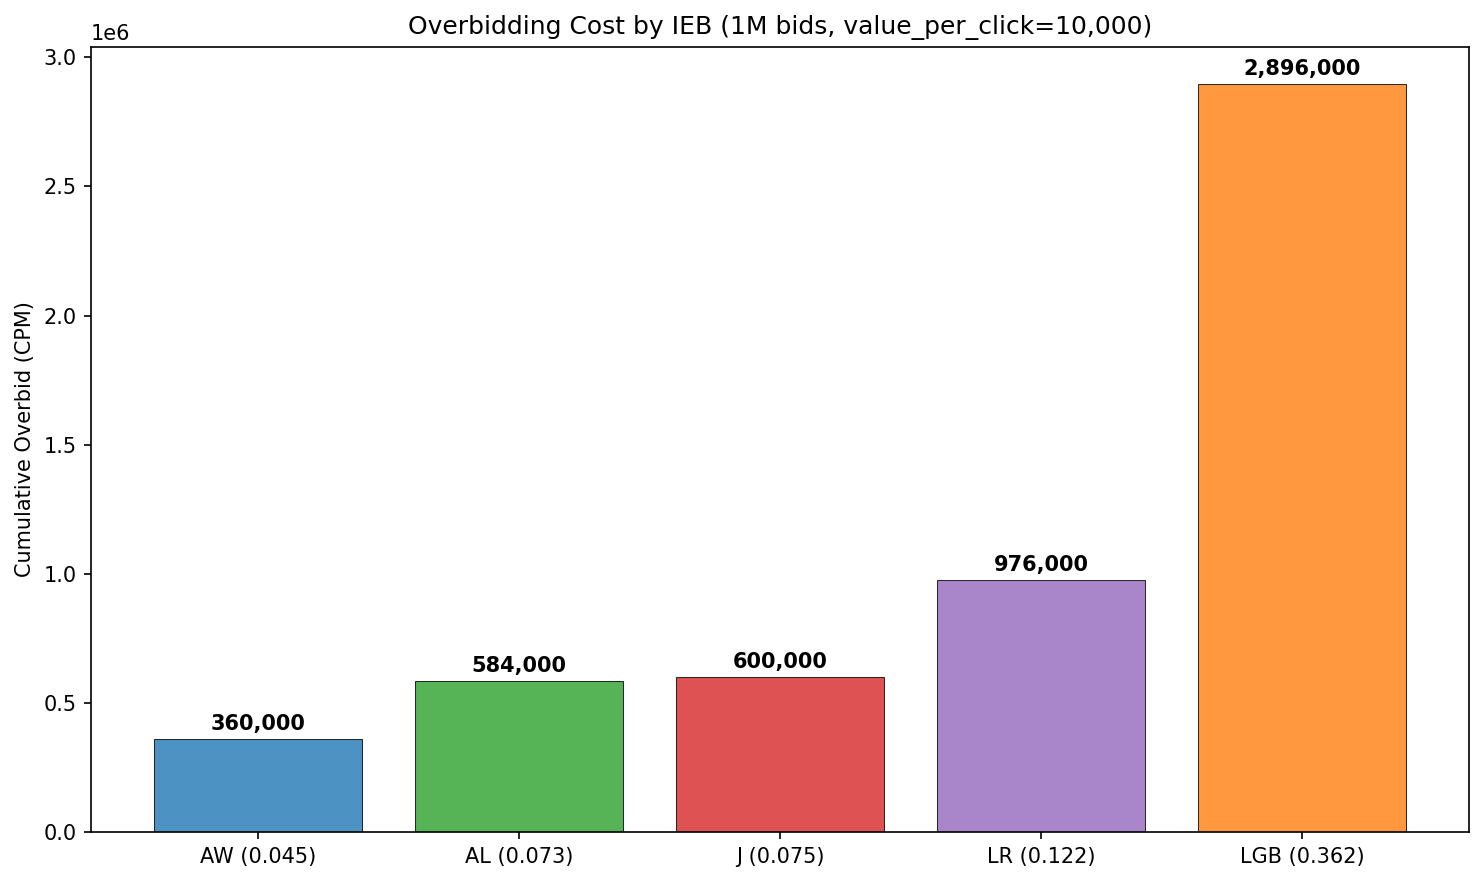
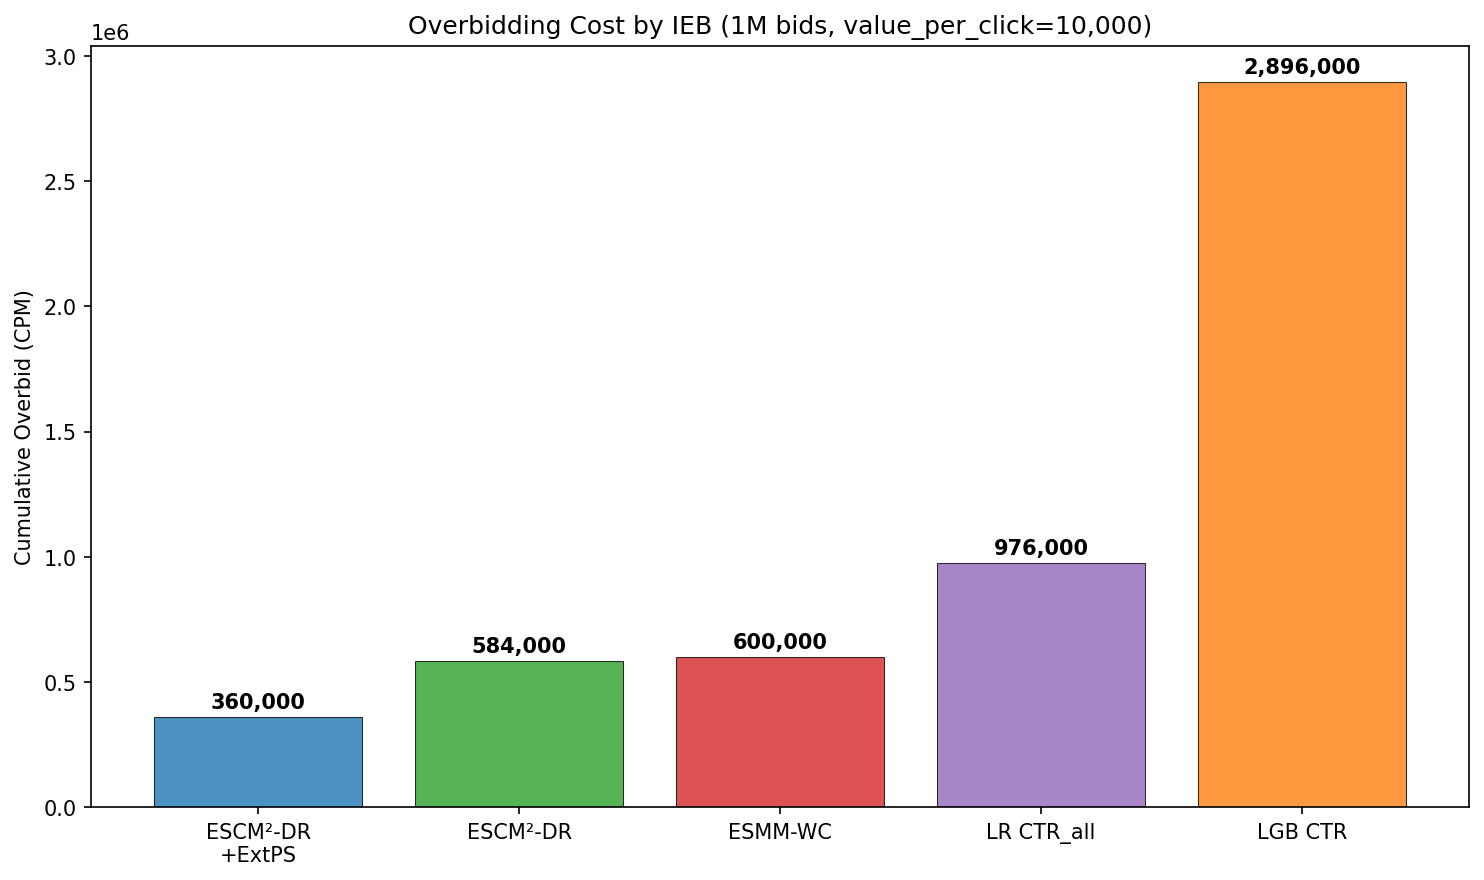
feat: 모델 비교 diagnostics + overbidding/surplus figures 고도화
- plot_comparison_diagnostics() 추가: LGB/LR/ESCM²-WC(DR) calibration+ROC+IEB 3-panel 비교
- prediction_report.md: 개별 Figure 10-14 → 비교 figure 통합, figure 번호 재정리
- prediction_report_summary.md: 비교 diagnostics/overbidding/surplus heatmap 적용,
  Methodology에 Overbidding vs Surplus 개념 설명 추가
- overbidding plot: Run 코드(AW,AL,J) → 모델명(ESCM²-DR, ESMM-WC 등) 변경
- surplus figure: 절대 surplus bar → loss % heatmap 재설계 (0%=green, 8%=red)

diff --git a/scripts/regenerate_surplus_figures.py b/scripts/regenerate_surplus_figures.py
@@ -83,72 +83,63 @@ def generate_calibration_economic_value():
                  for n, _, _ in MODEL_SPECS]
         print(f"Ex{ex_id}: oracle={s_or:.2f} | " + " | ".join(parts))
 
-    # === 2-Panel Figure ===
-    fig, axes = plt.subplots(1, 2, figsize=(16, 6))
+    # === Annotated Heatmap: Surplus Loss % ===
+    import matplotlib.colors as mcolors
 
-    # Left: Overall
-    ax = axes[0]
-    names_display = [r["name"].replace("ESCM²-WC(DR)", "ESCM²\nDR").replace("+ExtPS ", "+ExtPS\n")
-                     for r in overall_results]
-    colors = [r["color"] for r in overall_results]
-    surpluses = [r["true_surplus"] for r in overall_results]
+    col_labels = ["Overall", "Ex1\n(F300=69%)", "Ex2\n(F300=29%)", "Ex3\n(F300=12%)"]
 
-    x_pos = np.arange(len(overall_results))
-    ax.bar(x_pos, surpluses, color=colors, alpha=0.8, edgecolor="black", linewidth=0.5)
-    ax.axhline(s_oracle, color="gray", linestyle="--", linewidth=1,
-               label=f"Oracle: {s_oracle:.2f} CPM")
+    # Build loss matrix (rows=models, cols=contexts)
+    row_labels = []
+    loss_matrix = []
+    for name, ieb, _ in MODEL_SPECS:
+        short = (name.replace("ESCM²-WC(DR)", "ESCM²-DR")
+                 .replace("+ExtPS AW", "+ExtPS")
+                 .replace(" AL", "").replace(" J", "")
+                 .replace(" (biased)", ""))
+        row_labels.append(short)
+        r = next(r for r in overall_results if r["name"] == name)
+        row = [r["loss_pct"]]
+        for ex_id in sorted(ex_results.keys()):
+            row.append(ex_results[ex_id]["models"][name]["loss_pct"])
+        loss_matrix.append(row)
 
-    for i, r in enumerate(overall_results):
-        ax.text(i, r["true_surplus"] + 0.3,
-                f'b*={r["b_star"]:.0f}\nIEB={r["ieb"]:.3f}',
-                ha="center", va="bottom", fontsize=7)
+    data = np.array(loss_matrix)
 
-    ax.set_xticks(x_pos)
-    ax.set_xticklabels(names_display, fontsize=8)
-    ax.set_ylabel("Expected Surplus (CPM, true V basis)")
-    ax.set_title(f"Overall: Optimal Bid Surplus (V_true={V_TRUE:.0f} CPM)")
-    ax.legend(fontsize=9)
-    ax.set_ylim(0, max(surpluses) * 1.4)
+    with plt.style.context("seaborn-v0_8-whitegrid"):
+        fig, ax = plt.subplots(figsize=(10, 4))
 
-    # Right: Exchange-conditional
-    ax2 = axes[1]
-    ex_ids = sorted(ex_results.keys())
-    n_models = len(MODEL_SPECS)
-    width = 0.15
-    x_ex = np.arange(len(ex_ids))
+        cmap = mcolors.LinearSegmentedColormap.from_list(
+            "surplus", ["#2ECC71", "#F1C40F", "#E74C3C"], N=256
+        )
+        vmax = max(data.max(), 1.0)
+        im = ax.imshow(data, cmap=cmap, aspect="auto", vmin=0, vmax=vmax)
 
-    for j, (name, ieb, color) in enumerate(MODEL_SPECS):
-        vals = [ex_results[ex]["models"][name]["true_surplus"] for ex in ex_ids]
-        short_label = name.split(" ")[0] + " " + name.split(" ")[-1]
-        ax2.bar(x_ex + j * width, vals, width, color=color, alpha=0.8,
-                edgecolor="black", linewidth=0.5, label=short_label)
+        # Annotations
+        for i in range(data.shape[0]):
+            for j in range(data.shape[1]):
+                val = data[i, j]
+                color = "white" if val > vmax * 0.6 else "black"
+                ax.text(j, i, f"{val:.1f}%", ha="center", va="center",
+                        fontsize=12, fontweight="bold", color=color)
 
-    oracle_vals = [ex_results[ex]["oracle_surplus"] for ex in ex_ids]
-    ax2.scatter(x_ex + (n_models - 1) * width / 2, oracle_vals, marker="*", s=100,
-                color="gold", edgecolor="black", zorder=5, label="Oracle")
+        ax.set_xticks(np.arange(len(col_labels)))
+        ax.set_xticklabels(col_labels, fontsize=11)
+        ax.set_yticks(np.arange(len(row_labels)))
+        ax.set_yticklabels(row_labels, fontsize=11)
+        ax.xaxis.set_ticks_position("top")
+        ax.xaxis.set_label_position("top")
 
-    # Annotate max loss model per exchange
-    for i, ex in enumerate(ex_ids):
-        max_loss_name = max(ex_results[ex]["models"],
-                           key=lambda n: ex_results[ex]["models"][n]["loss_pct"])
-        loss = ex_results[ex]["models"][max_loss_name]["loss_pct"]
-        if loss > 0.5:
-            y_pos = ex_results[ex]["models"][max_loss_name]["true_surplus"]
-            ax2.text(i + (n_models - 1) * width, y_pos + 0.5, f"-{loss:.0f}%",
-                     ha="center", va="bottom", fontsize=8, color="red", fontweight="bold")
+        cbar = fig.colorbar(im, ax=ax, shrink=0.8, pad=0.02)
+        cbar.set_label("Surplus Loss vs Oracle (%)", fontsize=10)
 
-    ex_labels = {1: "Ex1\n(F300=69%)", 2: "Ex2\n(F300=29%)", 3: "Ex3\n(F300=12%)"}
-    ax2.set_xticks(x_ex + (n_models - 1) * width / 2)
-    ax2.set_xticklabels([ex_labels.get(ex, f"Ex{ex}") for ex in ex_ids], fontsize=9)
-    ax2.set_ylabel("Expected Surplus (CPM, true V basis)")
-    ax2.set_title("Exchange-Conditional: Miscalibration Impact")
-    ax2.legend(fontsize=7, loc="upper right")
+        ax.set_title("Calibration Impact on Bid Surplus",
+                     fontsize=13, fontweight="bold", pad=40)
 
-    plt.tight_layout()
-    save_path = FIG_DIR / "05_calibration_economic_value.png"
-    fig.savefig(save_path, dpi=150, bbox_inches="tight")
-    plt.close()
-    print(f"\nSaved: {save_path}")
+        plt.tight_layout()
+        save_path = FIG_DIR / "05_calibration_economic_value.png"
+        fig.savefig(save_path, dpi=150, bbox_inches="tight", facecolor="white")
+        plt.close()
+        print(f"\nSaved: {save_path}")
 
 
 def generate_overbidding_cumulative():
@@ -158,8 +149,8 @@ def generate_overbidding_cumulative():
     n_bids = 1_000_000
 
     ieb_values = [0.045, 0.073, 0.075, 0.122, 0.362]
-    ieb_labels = ["AW (0.045)", "AL (0.073)", "J (0.075)",
-                  "LR (0.122)", "LGB (0.362)"]
+    ieb_labels = ["ESCM²-DR\n+ExtPS", "ESCM²-DR", "ESMM-WC",
+                  "LR CTR_all", "LGB CTR"]
     colors = ["#1f77b4", "#2ca02c", "#d62728", "#9467bd", "#ff7f0e"]
 
     totals = [n_bids * actual_ctr * ieb * value_per_click for ieb in ieb_values]

diff --git a/src/metrics/diagnostics_plot.py b/src/metrics/diagnostics_plot.py
@@ -1,12 +1,14 @@
 """Reusable 3-panel prediction diagnostics: Calibration + ROC + Score Distribution."""
 
 from pathlib import Path
-from typing import NamedTuple, Optional, Tuple
+from typing import List, NamedTuple, Optional, Tuple
 
 import matplotlib.pyplot as plt
 import numpy as np
 from sklearn.calibration import calibration_curve
 from sklearn.metrics import roc_auc_score, roc_curve
+
+COMPARISON_COLORS = ["#E74C3C", "#3498DB", "#2ECC71", "#9B59B6", "#F39C12"]
 
 
 class DiagnosticsPlotConfig(NamedTuple):
@@ -88,5 +90,94 @@ def plot_prediction_diagnostics(
         save_path = Path(save_path)
         save_path.parent.mkdir(parents=True, exist_ok=True)
         fig.savefig(save_path, dpi=config.dpi, bbox_inches="tight")
+
+    return fig
+
+
+def plot_comparison_diagnostics(
+    models: List[Tuple[str, np.ndarray, np.ndarray]],
+    save_path: Optional[Path] = None,
+    config: DiagnosticsPlotConfig = DiagnosticsPlotConfig(),
+) -> plt.Figure:
+    """3-panel comparison diagnostics: overlay multiple models on Calibration + ROC + Score Distribution.
+
+    Args:
+        models: List of (model_name, y_true, y_pred) tuples.
+        save_path: If provided, save figure to this path.
+        config: Plot configuration.
+
+    Returns:
+        matplotlib Figure.
+    """
+    with plt.style.context("seaborn-v0_8-whitegrid"):
+        fig, axes = plt.subplots(1, 3, figsize=(16, 5))
+        colors = COMPARISON_COLORS[: len(models)]
+        scale = 1e3  # display in x1e-3
+
+        # 1. Calibration curve overlay (x1e-3 scale)
+        ax = axes[0]
+        xy_max = 0.0
+        for (name, y_true, y_pred), color in zip(models, colors):
+            prob_true, prob_pred = calibration_curve(
+                y_true, y_pred, strategy=config.cal_strategy, n_bins=config.n_cal_bins
+            )
+            ece = float(np.mean(np.abs(prob_true - prob_pred)))
+            ax.plot(
+                prob_pred * scale, prob_true * scale, "o-", color=color, lw=2, markersize=6,
+                label=f"{name}\n(ECE={ece:.4f})",
+            )
+            xy_max = max(xy_max, prob_pred.max(), prob_true.max())
+        xy_max *= scale * 1.15
+        ax.plot([0, xy_max], [0, xy_max], "k--", alpha=0.4, lw=1)
+        ax.set_xlim(0, xy_max)
+        ax.set_ylim(0, xy_max)
+        ax.set_xlabel("Mean Predicted (x1e-3)", fontsize=11)
+        ax.set_ylabel("Fraction of Positives (x1e-3)", fontsize=11)
+        ax.set_title("Calibration", fontsize=12, fontweight="bold")
+        ax.legend(fontsize=8.5, framealpha=0.9, loc="upper left")
+
+        # 2. ROC curve overlay
+        ax = axes[1]
+        for (name, y_true, y_pred), color in zip(models, colors):
+            fpr, tpr, _ = roc_curve(y_true, y_pred)
+            auc = roc_auc_score(y_true, y_pred)
+            ax.plot(fpr, tpr, color=color, lw=2.5, label=f"{name} ({auc:.4f})")
+        ax.plot([0, 1], [0, 1], "k--", alpha=0.4, lw=1)
+        ax.set_xlabel("False Positive Rate", fontsize=11)
+        ax.set_ylabel("True Positive Rate", fontsize=11)
+        ax.set_title("ROC Curve", fontsize=12, fontweight="bold")
+        ax.legend(fontsize=8.5, framealpha=0.9, loc="lower right", title="AUC", title_fontsize=9)
+
+        # 3. IEB comparison bar chart
+        ax = axes[2]
+        names, iebs = [], []
+        for (name, y_true, y_pred) in models:
+            ieb = abs(y_pred.mean() - y_true.mean()) / y_true.mean()
+            names.append(name)
+            iebs.append(ieb)
+        y_pos = np.arange(len(names))
+        bars = ax.barh(y_pos, iebs, color=colors, height=0.5, edgecolor="white", lw=1.5)
+        for bar, ieb in zip(bars, iebs):
+            ax.text(
+                bar.get_width() + 0.005, bar.get_y() + bar.get_height() / 2,
+                f"{ieb:.3f}", va="center", fontsize=11, fontweight="bold",
+            )
+        ax.set_yticks(y_pos)
+        ax.set_yticklabels(names, fontsize=10)
+        ax.set_xlabel("IEB (|mean bias| / actual CTR)", fontsize=11)
+        ax.set_title("Calibration Bias (IEB)", fontsize=12, fontweight="bold")
+        ax.set_xlim(0, max(iebs) * 1.35)
+        ax.invert_yaxis()
+
+        fig.suptitle(
+            "Model Comparison — Prediction Diagnostics",
+            fontsize=14, fontweight="bold", y=1.01,
+        )
+        plt.tight_layout()
+
+        if save_path is not None:
+            save_path = Path(save_path)
+            save_path.parent.mkdir(parents=True, exist_ok=True)
+            fig.savefig(save_path, dpi=config.dpi, bbox_inches="tight", facecolor="white")
 
     return fig

diff --git a/scripts/generate_diagnostics.py b/scripts/generate_diagnostics.py
@@ -11,7 +11,7 @@ import numpy as np
 from sklearn.metrics import roc_auc_score
 
 from src.features.engineering import load_feature_splits
-from src.metrics.diagnostics_plot import plot_prediction_diagnostics
+from src.metrics.diagnostics_plot import plot_comparison_diagnostics, plot_prediction_diagnostics
 
 FEATURES_DIR = Path("data/ipinyou/prediction/features")
 MODEL_DIR = Path("results/models")
@@ -103,6 +103,63 @@ def generate_neural_diagnostics() -> None:
         print(f"{name} — AUC: {auc:.4f}, saved: {save_path}")
 
 
+def generate_comparison_diagnostics() -> None:
+    """LGB (won) vs LR (all) vs ESCM²-WC(DR) (all) comparison diagnostics."""
+    lgb_path = MODEL_DIR / "lgb_ctr.txt"
+    lr_path = MODEL_DIR / "lr_ctr_all.joblib"
+    escm2_path = MODEL_DIR / "escm2wc_dr_test_predictions.npz"
+
+    missing = [p for p in [lgb_path, lr_path, escm2_path] if not p.exists()]
+    if missing:
+        print(f"[SKIP] Missing: {[str(p) for p in missing]}")
+        return
+
+    _, _, test_df, metadata = load_feature_splits(FEATURES_DIR)
+    y_all = test_df["click"].values
+    won_mask = test_df["win"].values == 1
+
+    # LGB CTR — winners-only (biased baseline, its natural eval context)
+    feature_info = metadata.get("feature_info", {})
+    feature_cols = feature_info.get("categorical", []) + feature_info.get("numerical", [])
+    feature_cols = [c for c in feature_cols if c in test_df.columns]
+    lgb_model = lgb.Booster(model_file=str(lgb_path))
+    lgb_y = test_df.loc[won_mask, "click"].values
+    lgb_pred = lgb_model.predict(test_df.loc[won_mask, feature_cols])
+
+    # LR CTR_all — all-bids
+    artifact = joblib.load(lr_path)
+    lr_model = artifact["model"]
+    scaler = artifact["scaler"]
+    lr_feature_cols = artifact.get(
+        "feature_names",
+        [c for c in feature_info.get("categorical", []) + feature_info.get("numerical", [])
+         if c in test_df.columns],
+    )
+    lr_pred_all = lr_model.predict_proba(
+        scaler.transform(test_df[lr_feature_cols].values.astype(np.float32))
+    )[:, 1]
+
+    # ESCM²-WC(DR) — all-bids WCTR
+    escm2 = np.load(escm2_path)
+    escm2_pred_all = escm2["p_click_bid"]
+
+    models = [
+        ("LGB CTR (won)", lgb_y, lgb_pred),
+        ("LR CTR_all", y_all, lr_pred_all),
+        ("ESCM²-WC(DR)", y_all, escm2_pred_all),
+    ]
+
+    save_path = FIG_DIR / "03_model_comparison_diagnostics.png"
+    plot_comparison_diagnostics(models, save_path=save_path)
+    plt.close()
+
+    for name, y_true, y_pred in models:
+        auc = roc_auc_score(y_true, y_pred)
+        ieb = abs(y_pred.mean() - y_true.mean()) / y_true.mean()
+        print(f"  {name} — AUC: {auc:.4f}, IEB: {ieb:.4f}")
+    print(f"Saved: {save_path}")
+
+
 if __name__ == "__main__":
     print("=== LGB CTR Diagnostics ===")
     generate_lgb_diagnostics()
@@ -110,4 +167,6 @@ if __name__ == "__main__":
     generate_lr_diagnostics()
     print("\n=== Neural Model Diagnostics ===")
     generate_neural_diagnostics()
+    print("\n=== Model Comparison Diagnostics ===")
+    generate_comparison_diagnostics()
     print("\nDone.")

diff --git a/docs/prediction_report_summary.md b/docs/prediction_report_summary.md
@@ -185,6 +185,19 @@ Propensity 또는 imputation 중 하나만 올바르면 일치성 보장 (doubly
 
 > 상세 수식 및 학습 설정: [prediction_report.md §2](prediction_report.md#2-방법론) 참조
 
+### Calibration의 경제적 평가: Overbidding vs Surplus
+
+RTB에서 calibration error(IEB)의 경제적 영향을 두 가지 관점에서 측정한다:
+
+| | Overbidding Cost | Surplus Loss |
+|---|---|---|
+| **측정** | 입찰가 초과분 (bid error) | 기대 수익 감소 (profit loss) |
+| **산식** | `IEB × actual_CTR × CPC` | `(V - b*) × F(b*)` vs Oracle |
+| **IEB 관계** | 선형 비례 | 시장 CDF shape 의존 |
+| **해석** | "calibration이 얼마나 나쁜가" (모델 품질) | "실제로 돈을 얼마나 잃는가" (비즈니스 임팩트) |
+
+Overbidding은 모든 exchange에서 동일하지만, surplus loss는 시장 경쟁도에 따라 다르다 — 경쟁이 낮은 exchange(Ex1)에서는 win rate가 높아 과다 입찰의 영향이 크고, 경쟁이 높은 exchange(Ex3)에서는 어차피 승리가 어려워 영향이 없다.
+
 ---
 
 ## Results Summary
@@ -219,8 +232,11 @@ Propensity 또는 imputation 중 하나만 올바르면 일치성 보장 (doubly
 - DR의 주요 기여는 AUC **+0.032 개선** (ESMM-WC → ESCM²-WC(DR))
 - External PS (Run AW) = **calibration best** (IEB 0.045)
 
-![Debiasing Ablation](../results/figures/04_debiasing_ablation_ladder.png)
-*Debiasing ablation ladder. Multi-task 모델이 biased baseline 대비 AUC + calibration 모두 개선.*
+![Model Comparison Diagnostics](../results/figures/03_model_comparison_diagnostics.png)
+*LGB CTR (won-only) vs LR CTR_all vs ESCM²-WC(DR) 비교. Calibration: ESCM²-WC(DR)이 perfect line에 가장 근접. LGB는 상위 bin에서 overestimation이 뚜렷하다.*
+
+![Overbidding Cost](../results/figures/04_overbidding_simulation.png)
+*모델별 Overbidding Cost (1M bids). Neural debiasing (AW 360K) vs LGB baseline (2,896K) — ~8배 차이.*
 
 ### Calibration의 경제적 가치
 
@@ -244,8 +260,8 @@ Propensity 또는 imputation 중 하나만 올바르면 일치성 보장 (doubly
 
 Neural debiasing = **near-oracle surplus**. LGB baseline은 경쟁이 낮은 Ex1에서 **-8% surplus 손실**.
 
-![Calibration Economic Value](../results/figures/05_calibration_economic_value.png)
-*Calibration → surplus 연결. Neural debiasing 모델은 near-oracle, LGB는 Ex1에서 -8% 손실.*
+![Surplus Loss by Exchange](../results/figures/05_calibration_economic_value.png)
+*Surplus Loss vs Oracle (%). LGB CTR은 Ex1(win rate 높은 exchange)에서 8.2% 손실. Neural debiasing 모델은 전 exchange에서 ~0% loss.*
 
 ### Production 모델 선택
 